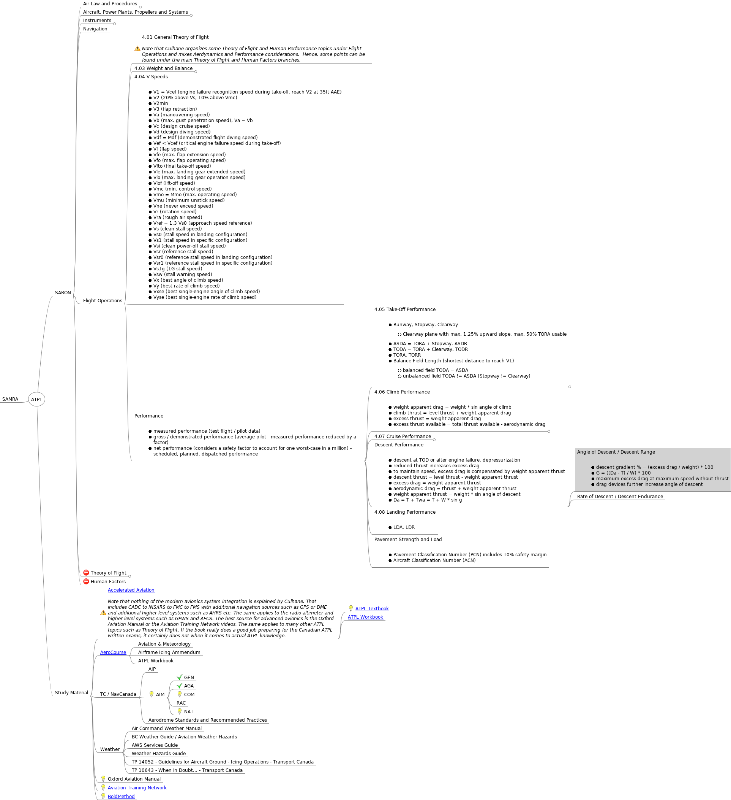
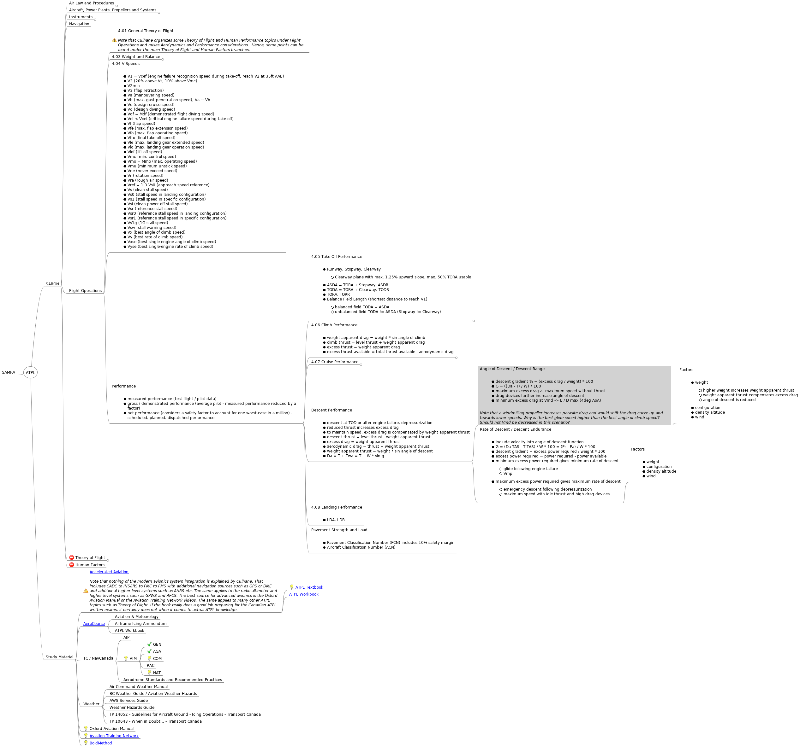
extended ATPL mind map

diff --git a/ATPL/Exam/ATPL.mm b/ATPL/Exam/ATPL.mm
@@ -6331,7 +6331,7 @@
 </html></richcontent>
 </node>
 </node>
-<node CREATED="1572288287627" FOLDED="true" ID="ID_860230094" MODIFIED="1572384298651">
+<node CREATED="1572288287627" FOLDED="true" ID="ID_860230094" MODIFIED="1572386383991">
 <richcontent TYPE="NODE"><html>
   <head>
     
@@ -6359,7 +6359,7 @@
     </ul>
   </body>
 </html></richcontent>
-<node CREATED="1572371365302" FOLDED="true" ID="ID_480925617" MODIFIED="1572383775976">
+<node CREATED="1572371365302" FOLDED="true" ID="ID_480925617" MODIFIED="1572386382293">
 <richcontent TYPE="NODE"><html>
   <head>
     
@@ -6407,8 +6407,7 @@
       </li>
     </ul>
   </body>
-</html>
-</richcontent>
+</html></richcontent>
 <node CREATED="1572371622100" ID="ID_1776468665" MODIFIED="1572377263921">
 <richcontent TYPE="NODE"><html>
   <head>
@@ -6556,8 +6555,7 @@
       </li>
     </ul>
   </body>
-</html>
-</richcontent>
+</html></richcontent>
 <node CREATED="1572375234211" ID="ID_1455168310" MODIFIED="1572380829420">
 <richcontent TYPE="NODE"><html>
   <head>
@@ -6660,8 +6658,7 @@
       <i>Flaps do not increase climb performance! </i>
     </p>
   </body>
-</html>
-</richcontent>
+</html></richcontent>
 </node>
 </node>
 </node>
@@ -7059,9 +7056,8 @@
       </li>
     </ul>
   </body>
-</html>
-</richcontent>
-<node CREATED="1572382075727" ID="ID_466214932" MODIFIED="1572384151192">
+</html></richcontent>
+<node CREATED="1572382075727" ID="ID_466214932" MODIFIED="1572386678156">
 <richcontent TYPE="NODE"><html>
   <head>
     
@@ -7086,12 +7082,146 @@
       <li>
         drag devices further increase angle of descent
       </li>
+      <li>
+        minimum excess drag at Vmd -&gt; L / D max (4deg AoA)
+      </li>
+    </ul>
+    <p>
+      
+    </p>
+    <p>
+      <i>Note that a windmilling propeller increases parasite drag and would shift the drag curve up and towards lower speeds. Why is the best glide speed higher than the best angle of climb speed? Should not Vmd be decreased in this scenario?</i>
+    </p>
+  </body>
+</html>
+</richcontent>
+<node CREATED="1572386311793" ID="ID_877715852" MODIFIED="1572386607369">
+<richcontent TYPE="NODE"><html>
+  <head>
+    
+  </head>
+  <body>
+    <p>
+      Factors
+    </p>
+    <p>
+      
+    </p>
+    <ul>
+      <li>
+        weight
+
+        <ul>
+          <li>
+            higher weight increases weight apparent thrust
+          </li>
+          <li>
+            weight apparent thrust compensates excess drag
+          </li>
+          <li>
+            angle of descent is reduced
+          </li>
+        </ul>
+      </li>
+      <li>
+        configuration
+      </li>
+      <li>
+        density altitude
+      </li>
+      <li>
+        wind
+      </li>
     </ul>
   </body>
 </html>
 </richcontent>
 </node>
-<node CREATED="1572382101682" ID="ID_1747781193" MODIFIED="1572382111952" TEXT="Rate of Descent / Descent Endurance"/>
+</node>
+<node CREATED="1572382101682" ID="ID_1747781193" MODIFIED="1572386257142">
+<richcontent TYPE="NODE"><html>
+  <head>
+    
+  </head>
+  <body>
+    <p>
+      Rate of Descent / Descent Endurance
+    </p>
+    <p>
+      
+    </p>
+    <ul>
+      <li>
+        include velocity into angle of descent function
+      </li>
+      <li>
+        G = (Da TAS - T TAS) / W * 100 = (Pr - Pa) / W * 100
+      </li>
+      <li>
+        descent gradient = excess power required / weight * 100
+      </li>
+      <li>
+        excess power required = power required - power available
+      </li>
+      <li>
+        minimum excess power required gives minimum rate of descent
+
+        <ul>
+          <li>
+            glide following engine failure
+          </li>
+          <li>
+            Vmp
+          </li>
+        </ul>
+      </li>
+      <li>
+        maximum excess power required gives maximum rate of descent
+
+        <ul>
+          <li>
+            emergency descent following depressurization
+          </li>
+          <li>
+            maximum speed with idle thrust and high drag devices
+          </li>
+        </ul>
+      </li>
+    </ul>
+  </body>
+</html>
+</richcontent>
+<node CREATED="1572386322235" ID="ID_1481419778" MODIFIED="1572386417644">
+<richcontent TYPE="NODE"><html>
+  <head>
+    
+  </head>
+  <body>
+    <p>
+      Factors
+    </p>
+    <p>
+      
+    </p>
+    <ul>
+      <li>
+        weight
+      </li>
+      <li>
+        configuration
+      </li>
+      <li>
+        density altitude
+      </li>
+      <li>
+        wind
+      </li>
+    </ul>
+  </body>
+</html>
+</richcontent>
+</node>
+</node>
 </node>
 <node CREATED="1572288344914" ID="ID_132736715" MODIFIED="1572292407854">
 <richcontent TYPE="NODE"><html>
